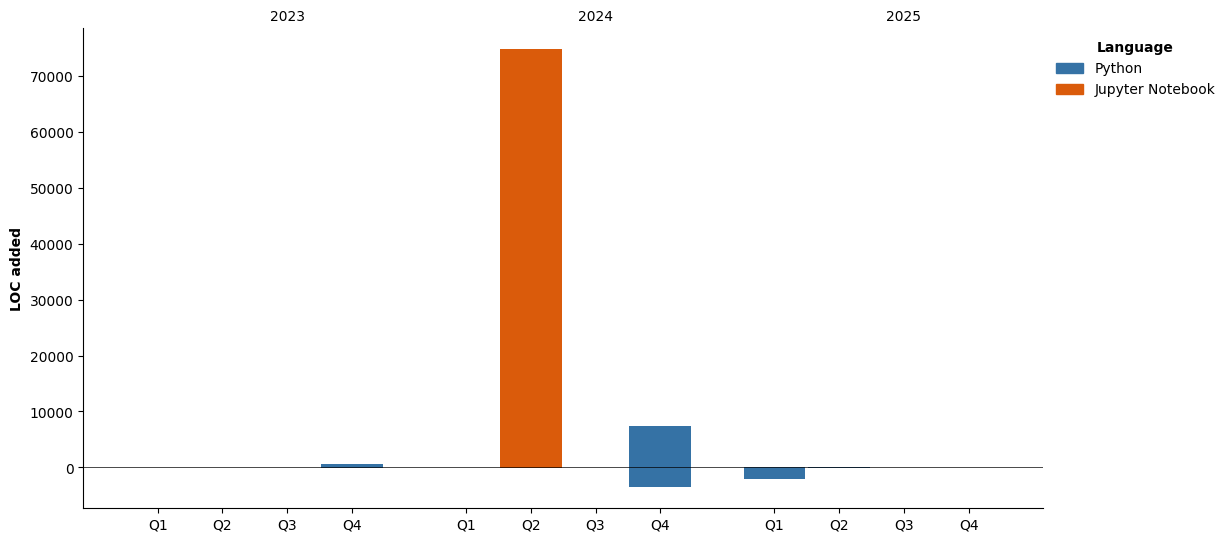
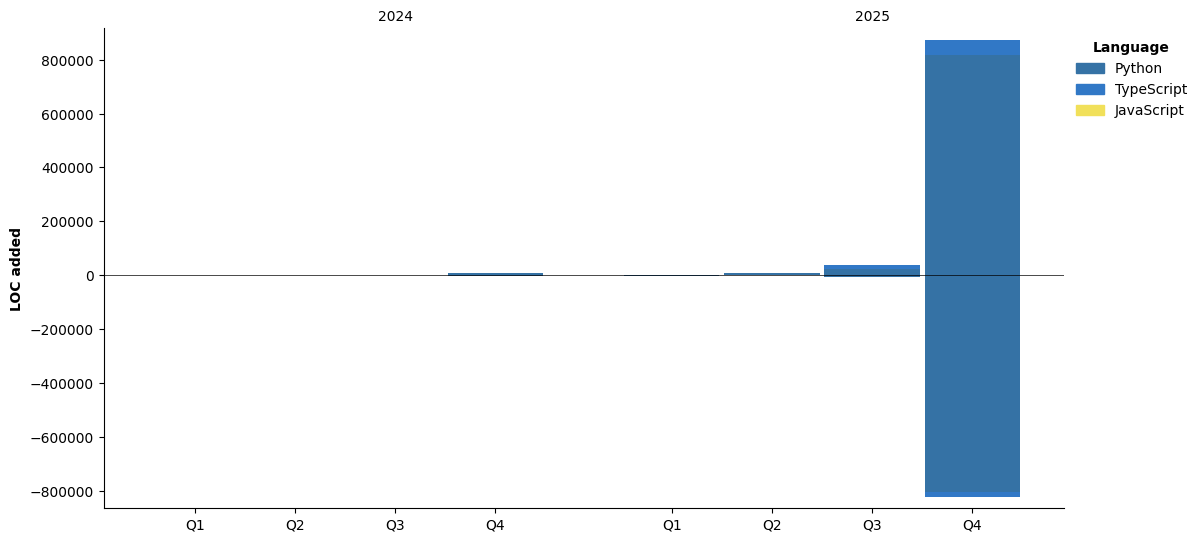
Updated with Dev Metrics

diff --git a/README.md b/README.md
@@ -6,6 +6,38 @@
 > Machine Learning Engineer focusing on Deep Learning research and development
 
 <!--START_SECTION:waka-->
+![Code Time](http://img.shields.io/badge/Code%20Time-164%20hrs%2022%20mins-blue)
+
+📊 **This Week I Spent My Time On** 
+
+```text
+💬 Programming Languages: 
+Python                   56 mins             ██████████████████░░░░░░░   70.76 % 
+jsonc                    8 mins              ███░░░░░░░░░░░░░░░░░░░░░░   10.97 % 
+shell script             7 mins              ██░░░░░░░░░░░░░░░░░░░░░░░   09.05 % 
+JavaScript               2 mins              █░░░░░░░░░░░░░░░░░░░░░░░░   02.63 % 
+TypeScript               2 mins              █░░░░░░░░░░░░░░░░░░░░░░░░   02.55 % 
+
+🔥 Editors: 
+Zed                      1 hr 19 mins        █████████████████████████   100.00 % 
+```
+
+**I Mostly Code in Python** 
+
+```text
+Python                   18 repos            ████████████████████░░░░░   81.82 % 
+TypeScript               3 repos             ███░░░░░░░░░░░░░░░░░░░░░░   13.64 % 
+JavaScript               1 repo              █░░░░░░░░░░░░░░░░░░░░░░░░   04.55 % 
+```
+
+
+
+**Timeline**
+
+![Lines of Code chart](https://raw.githubusercontent.com/byeolki/byeolki/main/assets/bar_graph.png)
+
+
+ Last Updated on 23/12/2025 00:10:03 UTC
 <!--END_SECTION:waka-->
 
 <div align="center">
